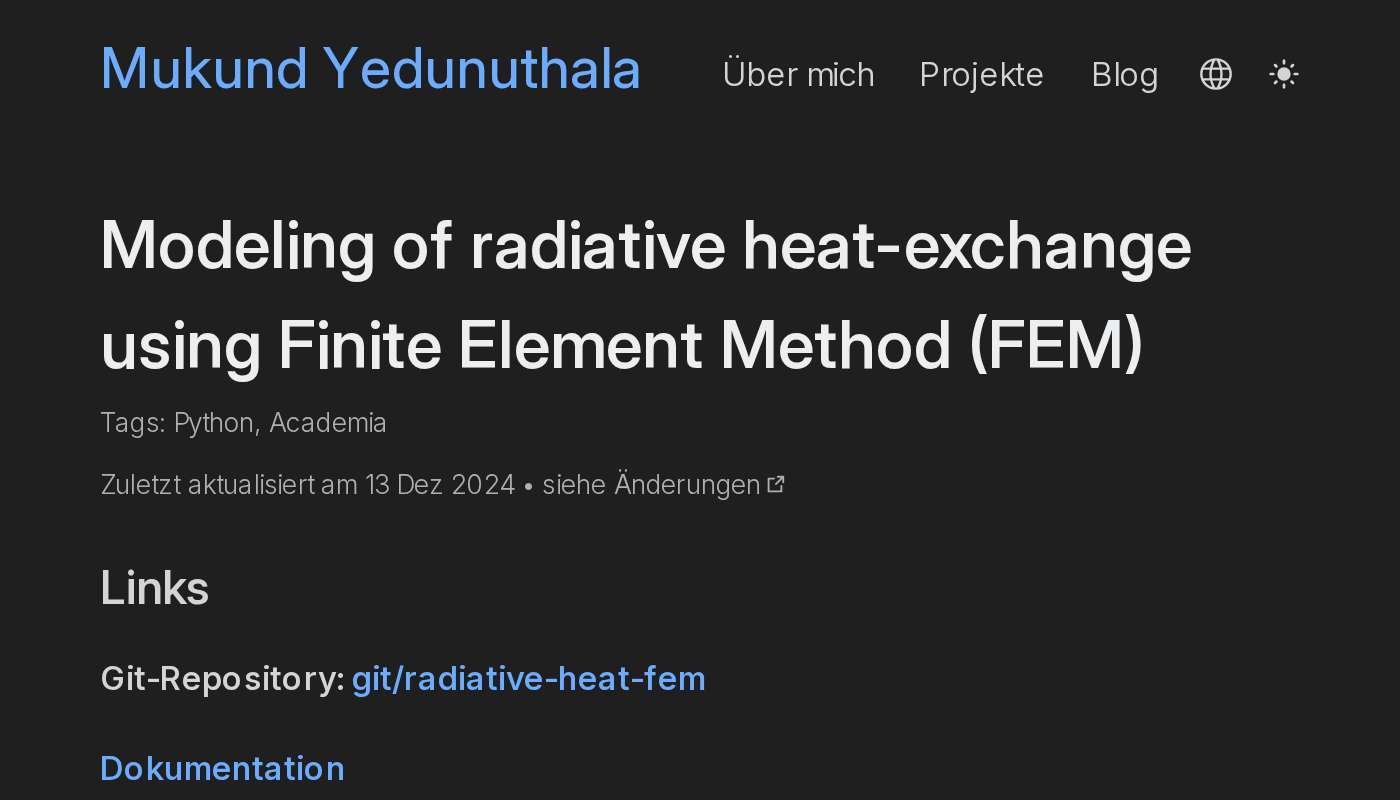
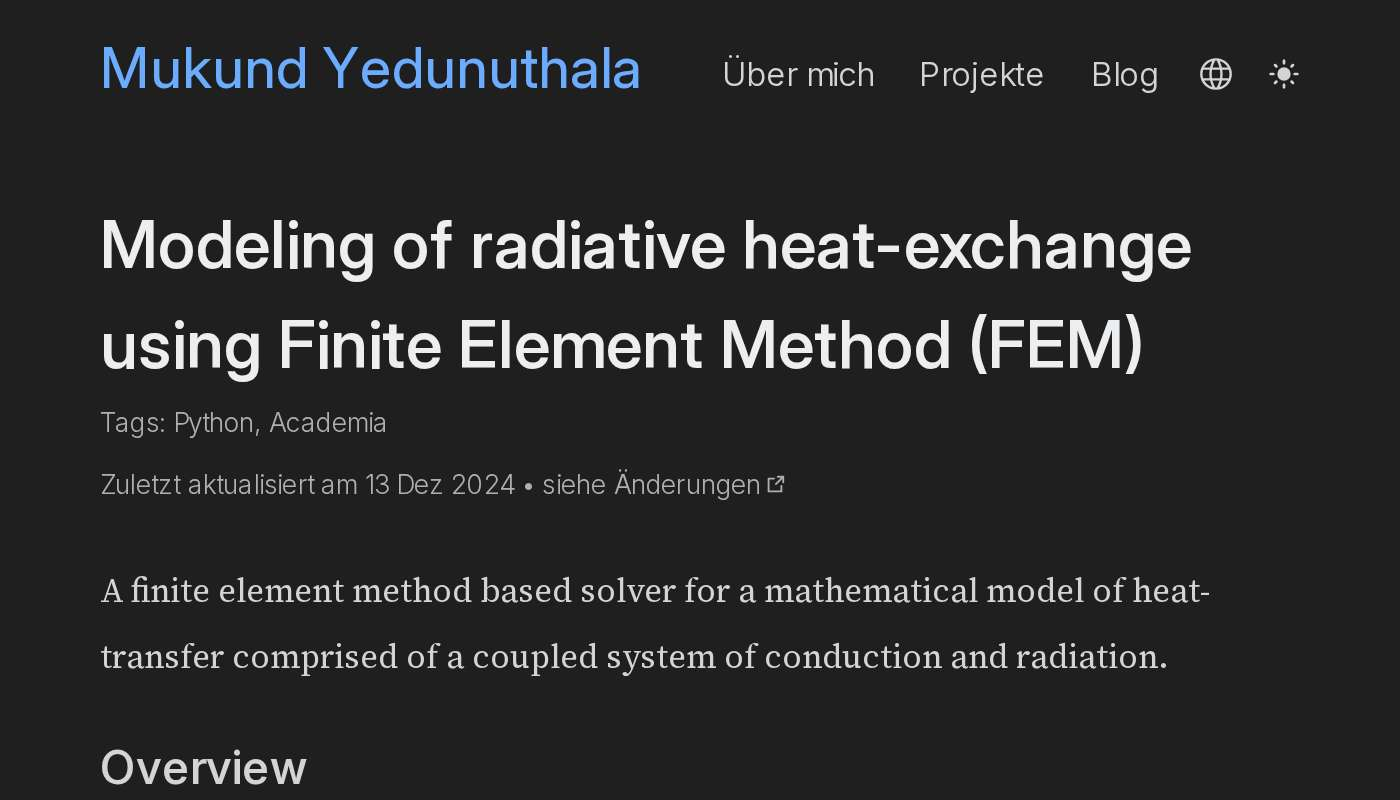
chore: update radiative-ht-fem pages

Changed region(s): [[0.0614, 0.8125, 0.8293, 0.875], [0.0614, 0.7188, 0.86, 0.7812], [0.0614, 0.9375, 0.2457, 1.0]]

diff --git a/content/projects/radiative-ht-fem/index.de.md b/content/projects/radiative-ht-fem/index.de.md
@@ -2,25 +2,89 @@
 title = "Modeling of radiative heat-exchange using Finite Element Method (FEM)"
 description = "Finite-Elemente-Methode basierender Solver für ein mathematisches Modell der Wärmeübertragung, bestehend aus einem System, das zwischen Leitung und Strahlung gekoppelt ist."
 date = 2022-10-15
-updated = 2024-12-13
+updated = 2026-04-07
 weight = 3
 
 [taxonomies]
 tags = ["Python", "Academia"]
 
 [extra]
-local_image = "projects/radiative-ht-fem/img/proj_pppss22_tn.png"
+local_image = "projects/radiative-ht-fem/img/Pasted image 20260407153658.png"
 social_media_card = "img/social_cards/de_projects_radiative_ht_fem.jpg"
 +++
+
+A finite element method based solver for a mathematical model of heat-transfer comprised of a coupled system of conduction and radiation.
+
+## Overview
+
+The energy transfer between two metallic bodies could be characterized by three phenomena, namely conduction, convection and radiation. The primary cause for such heat transfer is a difference in the temperature of the bodies. The amount of heat transferred between the bodies depends additionally on their respective material's properties, characterized by concepts such as conductivity, emissivity etc. 
+
+Conduction characterizes heat transferred through an exchange of energy between molecules in proximity without any movement of such subatomic particles. The medium of transfer thus influences the heat transfer directly. This is characterized by Fourier law of heat conduction. 
+$$
+\begin{equation}\label{eq:fl_cond}
+            q_x = -kA\frac{\partial T}{\partial x}
+        \end{equation}
+$$
+
+Thermal radiation, on the other hand, has been described as "a stream of electromagnetic radiation emitted by a material entity on account of its finite temperature." It is emitted from the surfaces of the bodies, and could either be absorbed or reflected on impacting another object. The difference between the amount of heat absorbed or reflected depends on external factors like the geometry or the orientation of these objects. The governing equation for this type of energy transfer is derived from the Stefan-Boltzmann Law which describes the maximum "flux" that can be emitted by radiation from a black surface. The quantity $\sigma$, known as Stefan-Boltzmann constant, has value $5.670367 \times 10^{-8} W m^{-2} K^{-4}$. Figure 1[^1] is a representative image of this phenomenon.
+$$
+\begin{equation}
+	q = \sigma T_w^4
+\end{equation}
+$$
+
+<div align="center">
+  <img src="img/Pasted image 20260407151225.png" alt="Thermal radiation between two bodies at different temperatures." width="500">
+  <p><em>Fig. 1: Thermal radiation between two bodies at different temperatures.</em></p>
+</div>
+
+### Motivation
+
+Celestial bodies such as asteroids and airless bodies, such as the Moon, are covered with a loose, unconsolidated material termed as *regolith*. Owing to the lack of disturbing factors, the regolith preserves the characteristics of that body for a long time. The thermal properties of such materials could be evaluated using appropriate finite element mesh frameworks. An analysis of temperature distribution could output results that can push further analyses of other properties such as their thermal conductivities.
+
+The primary mode of energy transfer to these particles is through electromagnetic radiation from the nearest heat sources, usually a star. The influence of such thermal radiation on these particles forms the motivation behind this programming project.
+
+### Aims and objectives
+
+The aim of this programming project is as follows: To study and model radiative heat-exchange using finite element method in a given specimen.
+The objectives set for this programming project are listed below: 
+- Calculate view factors, which determine the multipliers for thermal radiation. 
+- Development of a Newton-Raphson solver for the boundary value problem with appropriate quadrature scheme. 
+- Validate the solver using a one-dimensional steady-state configuration with heat radiation using a solution provided in literature.
+
+## Solution
+
+<div align="center">
+  <img src="img/Pasted image 20260407152308.png" alt="Process in a finite element method based analysis" width="500">
+  <p><em>Fig. 2: Process in a finite element method based analysis.</em></p>
+</div>
+
+Finite element method based analysis could be split into several sub-tasks or routines as shown in Figure 2[^2]. These tasks could be grouped into three broad categories:
+- Pre-processing,
+- Processing, and
+- Post-processing.
+
+Here, the definition of geometry as well as its subsequent meshing is handled using a software called GMsh. GMsh offers the ability to export the mesh in a wide range of supported formats, which meant that the pre-processing module required the creation of a parser for a specific mesh format. The processing tasks, which involve computation of gauss points, weights for quadrature, assembling the overarching system to be solved, handling boundary conditions in those global systems, were handled using `NumPy` and custom built OOP interfaces in Python. `Matplotlib` was used to generate post-processing information including temperature distribution plots after the analysis. 
+
+Since the computations involved geometric viewfactor calculations in order to account for the arrangement of the two bodies in the system under consideration, a ray-tracing library was required. Even for a discretized system required by a finite element analysis, ray-tracing kernels could be used to determine which of the relevant "elements" can "see" each other. For this purpose, Intel® Corporation’s Embree kernels were employed under
+Apache 2.0 license. 
+
+## Results
+
+To demonstrate the steady-state solving capabilities of the solver with multiple essential boundary conditions, consider a square plate of unit thickness and size 1 m, is subjected to isothermal boundary conditions of 100 $^{\circ}$C on all sides except the top side which is subjected to 500 $^{\circ}$C. If the thermal conductivity of the material is constant and equal to 10 W/m $^{\circ}$C, the resultant temperature distribution upon analysis can be seen here in Figure 3.
+
+<div align="center">
+  <img src="img/Pasted image 20260407153658.png" alt="The temperature distribution as generated by the code" width="500">
+  <p><em>Fig. 3: The temperature distribution as generated by the code.</em></p>
+</div>
+Individual components of the Python interface were tested using `pytest` module.
+
 ## Links
 
-#### Git-Repository: [git/radiative-heat-fem](https://gitlab.com/mukund-yedunuthala/radiative-heat-fem)
-#### [Dokumentation](https://mukundyedunuthala.page/docs/radiative-heat-fem/)
+- Repository: [git/radiative-heat-fem](https://gitlab.com/mukund-yedunuthala/radiative-heat-fem)
+- [Link to Documentation](https://mukundyedunuthala.page/docs/radiative-heat-fem/)
 
+## References
 
-## Überblick
-The energy transport between material bodies is characterized by a section of science known as heat transfer. The three modes of such an energy transfer, which occurs primarily due to a difference in the temperature, are: conduction, convection, and radiation.
-
-To describe briefly, conduction mode of heat transfer describes the energy transport that occurs owing to an exchange of energy between molecules, or subatomic particles, without actually moving. As such, the characteristics of such a transfer depend upon the medium of transfer itself.
-
-This programming project attempts to model instances of each of these heat transfers in order to evaluate the temperature distribution. These governing equations are characterized in their weak integral formulations, which in turn are discretized using Galerkin's approach to develop a finite element method-based model to evaluate said temperature distribution.
+[^1]: Bejan A. Heat transfer: evolution, design and performance. Hoboken, NJ: John Wiley & Sons, Inc.; 2023.
+[^2]: Nithiarasu, P. & Lewis, Roland & Seetharamu, K.N.. (2015). Fundamentals of the finite element method for heat and mass transfer.

diff --git a/content/projects/radiative-ht-fem/index.md b/content/projects/radiative-ht-fem/index.md
@@ -2,24 +2,89 @@
 title = "Modeling of radiative heat-exchange using Finite Element Method (FEM)"
 description = "A finite element method based solver for a mathematical model of heat-transfer comprised of a coupled system of conduction and radiation."
 date = 2022-10-15
-updated = 2024-12-13
+updated = 2026-04-07
 weight = 3
 
 [taxonomies]
 tags = ["Python", "Academia"]
 
 [extra]
-local_image = "projects/radiative-ht-fem/img/proj_pppss22_tn.png"
+local_image = "projects/radiative-ht-fem/img/Pasted image 20260407153658.png"
 social_media_card = "img/social_cards/projects_radiative_ht_fem.jpg"
 +++
+
+A finite element method based solver for a mathematical model of heat-transfer comprised of a coupled system of conduction and radiation.
+
+## Overview
+
+The energy transfer between two metallic bodies could be characterized by three phenomena, namely conduction, convection and radiation. The primary cause for such heat transfer is a difference in the temperature of the bodies. The amount of heat transferred between the bodies depends additionally on their respective material's properties, characterized by concepts such as conductivity, emissivity etc. 
+
+Conduction characterizes heat transferred through an exchange of energy between molecules in proximity without any movement of such subatomic particles. The medium of transfer thus influences the heat transfer directly. This is characterized by Fourier law of heat conduction. 
+$$
+\begin{equation}\label{eq:fl_cond}
+            q_x = -kA\frac{\partial T}{\partial x}
+        \end{equation}
+$$
+
+Thermal radiation, on the other hand, has been described as "a stream of electromagnetic radiation emitted by a material entity on account of its finite temperature." It is emitted from the surfaces of the bodies, and could either be absorbed or reflected on impacting another object. The difference between the amount of heat absorbed or reflected depends on external factors like the geometry or the orientation of these objects. The governing equation for this type of energy transfer is derived from the Stefan-Boltzmann Law which describes the maximum "flux" that can be emitted by radiation from a black surface. The quantity $\sigma$, known as Stefan-Boltzmann constant, has value $5.670367 \times 10^{-8} W m^{-2} K^{-4}$. Figure 1[^1] is a representative image of this phenomenon.
+$$
+\begin{equation}
+	q = \sigma T_w^4
+\end{equation}
+$$
+
+<div align="center">
+  <img src="img/Pasted image 20260407151225.png" alt="Thermal radiation between two bodies at different temperatures." width="500">
+  <p><em>Fig. 1: Thermal radiation between two bodies at different temperatures.</em></p>
+</div>
+
+### Motivation
+
+Celestial bodies such as asteroids and airless bodies, such as the Moon, are covered with a loose, unconsolidated material termed as *regolith*. Owing to the lack of disturbing factors, the regolith preserves the characteristics of that body for a long time. The thermal properties of such materials could be evaluated using appropriate finite element mesh frameworks. An analysis of temperature distribution could output results that can push further analyses of other properties such as their thermal conductivities.
+
+The primary mode of energy transfer to these particles is through electromagnetic radiation from the nearest heat sources, usually a star. The influence of such thermal radiation on these particles forms the motivation behind this programming project.
+
+### Aims and objectives
+
+The aim of this programming project is as follows: To study and model radiative heat-exchange using finite element method in a given specimen.
+The objectives set for this programming project are listed below: 
+- Calculate view factors, which determine the multipliers for thermal radiation. 
+- Development of a Newton-Raphson solver for the boundary value problem with appropriate quadrature scheme. 
+- Validate the solver using a one-dimensional steady-state configuration with heat radiation using a solution provided in literature.
+
+## Solution
+
+<div align="center">
+  <img src="img/Pasted image 20260407152308.png" alt="Process in a finite element method based analysis" width="500">
+  <p><em>Fig. 2: Process in a finite element method based analysis.</em></p>
+</div>
+
+Finite element method based analysis could be split into several sub-tasks or routines as shown in Figure 2[^2]. These tasks could be grouped into three broad categories:
+- Pre-processing,
+- Processing, and
+- Post-processing.
+
+Here, the definition of geometry as well as its subsequent meshing is handled using a software called GMsh. GMsh offers the ability to export the mesh in a wide range of supported formats, which meant that the pre-processing module required the creation of a parser for a specific mesh format. The processing tasks, which involve computation of gauss points, weights for quadrature, assembling the overarching system to be solved, handling boundary conditions in those global systems, were handled using `NumPy` and custom built OOP interfaces in Python. `Matplotlib` was used to generate post-processing information including temperature distribution plots after the analysis. 
+
+Since the computations involved geometric viewfactor calculations in order to account for the arrangement of the two bodies in the system under consideration, a ray-tracing library was required. Even for a discretized system required by a finite element analysis, ray-tracing kernels could be used to determine which of the relevant "elements" can "see" each other. For this purpose, Intel® Corporation’s Embree kernels were employed under
+Apache 2.0 license. 
+
+## Results
+
+To demonstrate the steady-state solving capabilities of the solver with multiple essential boundary conditions, consider a square plate of unit thickness and size 1 m, is subjected to isothermal boundary conditions of 100 $^{\circ}$C on all sides except the top side which is subjected to 500 $^{\circ}$C. If the thermal conductivity of the material is constant and equal to 10 W/m $^{\circ}$C, the resultant temperature distribution upon analysis can be seen here in Figure 3.
+
+<div align="center">
+  <img src="img/Pasted image 20260407153658.png" alt="The temperature distribution as generated by the code" width="500">
+  <p><em>Fig. 3: The temperature distribution as generated by the code.</em></p>
+</div>
+Individual components of the Python interface were tested using `pytest` module.
+
 ## Links
 
-#### Repository: [git/radiative-heat-fem](https://gitlab.com/mukund-yedunuthala/radiative-heat-fem)
-#### [Link to Documentation](https://mukundyedunuthala.page/docs/radiative-heat-fem/)
+- Repository: [git/radiative-heat-fem](https://gitlab.com/mukund-yedunuthala/radiative-heat-fem)
+- [Link to Documentation](https://mukundyedunuthala.page/docs/radiative-heat-fem/)
 
-## Summary
-The energy transport between material bodies is characterized by a section of science known as heat transfer. The three modes of such an energy transfer, which occurs primarily due to a difference in the temperature, are: conduction, convection, and radiation.
+## References
 
-To describe briefly, conduction mode of heat transfer describes the energy transport that occurs owing to an exchange of energy between molecules, or subatomic particles, without actually moving. As such, the characteristics of such a transfer depend upon the medium of transfer itself.
-
-This programming project attempts to model instances of each of these heat transfers in order to evaluate the temperature distribution. These governing equations are characterized in their weak integral formulations, which in turn are discretized using Galerkin's approach to develop a finite element method-based model to evaluate said temperature distribution.
+[^1]: Bejan A. Heat transfer: evolution, design and performance. Hoboken, NJ: John Wiley & Sons, Inc.; 2023.
+[^2]: Nithiarasu, P. & Lewis, Roland & Seetharamu, K.N.. (2015). Fundamentals of the finite element method for heat and mass transfer.

diff --git a/content/projects/stochastic-methods/index.de.md b/content/projects/stochastic-methods/index.de.md
@@ -10,7 +10,7 @@ author = "Mukund Yedunuthala"
 tags = ["R", "Academia"]
 
 [extra]
-local_image = "projects/stochastic-methods/img/stc-methd.png"
+remote_image = "https://gitlab.com/mukund-yedunuthala/stome-project-ws2020/-/raw/master/image3_09.png?ref_type=heads"
 show_remote_changes = true
 social_media_card = "img/social_cards/de_projects_stochastic_methods.jpg"
 +++

diff --git a/content/projects/stochastic-methods/index.md b/content/projects/stochastic-methods/index.md
@@ -9,7 +9,7 @@ author = "Mukund Yedunuthala"
 tags = ["R", "Academia"]
 
 [extra]
-local_image = "projects/stochastic-methods/img/stc-methd.png"
+remote_image = "https://gitlab.com/mukund-yedunuthala/stome-project-ws2020/-/raw/master/image3_09.png?ref_type=heads"
 show_remote_changes = true
 social_media_card = "img/social_cards/projects_stochastic_methods.jpg"
 +++

diff --git a/content/projects/_index.md b/content/projects/_index.md
@@ -10,4 +10,5 @@ quick_navigation_buttons = true
 show_remote_changes = true
 show_date = false
 toc = false
+social_media_card = "img/social_cards/projects.jpg"
 +++
